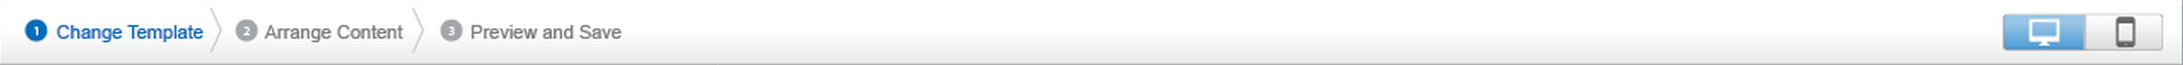
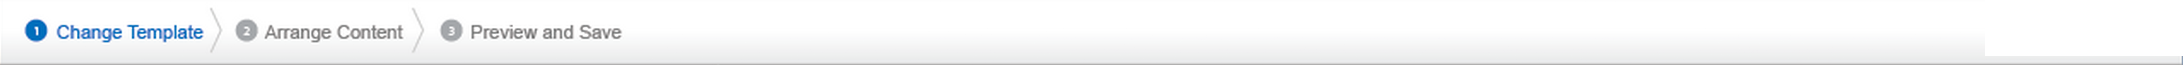
Small changes after feedback

Changed region(s): [[0.9033, 0.0, 1.0, 0.8615]]

diff --git a/master.js b/master.js
@@ -4,9 +4,16 @@ $(function(){
 	var $newPanel   = $('.new-panel');
 	var $newFooter  = $('.new-footer');
 	var $catContent = $('.cat-content');
+	var $BC         = $('.breadcrumb');
+	var $SB         = $('.save-btn');
+	var $ttl        = $('.header-title');
 
 	$switch.on('mousedown', function(ev){
 		var $currentTarget = $(ev.currentTarget);
+
+		$BC.show();
+		$SB.show();
+		$ttl.hide();
 
 		$switch.removeClass('active');
 		$catContent.removeClass('fade-out');
@@ -19,6 +26,9 @@ $(function(){
 		switch( $currentTarget.data('type') )
 		{
 			case 1:
+				$BC.fadeOut();
+				$SB.fadeOut();
+				$ttl.fadeIn();
 				$secHeader.addClass('open-1-pos');
 				$newPanel.addClass('open-1-pos');
 				$newFooter.addClass('open-1-pos');
@@ -30,6 +40,9 @@ $(function(){
 				},0);
 				break;
 			case 2:
+				$BC.fadeOut();
+				$SB.fadeOut();
+				$ttl.fadeIn();
 				$secHeader.addClass('open-2-pos');
 				$newPanel.addClass('open-2-pos');
 				$newFooter.addClass('open-2-pos');
@@ -41,6 +54,9 @@ $(function(){
 				},0);
 				break;
 			case 3:
+				$BC.fadeOut();
+				$SB.fadeOut();
+				$ttl.fadeIn();
 				setTimeout(function(){
 					$secHeader.addClass('open-3');
 					$newPanel.addClass('open-3');
@@ -49,6 +65,9 @@ $(function(){
 				},0);
 				break;
 			case 4:
+				$BC.fadeOut();
+				$SB.fadeOut();
+				$ttl.fadeIn();
 				setTimeout(function(){
 					$secHeader.addClass('open-4');
 					$newPanel.addClass('open-4');

diff --git a/index.html b/index.html
@@ -55,12 +55,14 @@
 <header class="padding-sm-bottom padding-lg-left padding-lg-right margin-sm-bottom">
 	<div class="container-fluid">
 		<!-- breadcrumb -->
-		<div class="row">
+		<div class="row" style="height:122px;">
 			<div class="col-sm-12">
 				<ol class="breadcrumb">
 					<li><a href="#">Back to Overview</a></li>
 				</ol>
 			</div>
+
+			<div class="header-title">Template Switcher</div>
 
 			<div class="btn-group save-btn">
 				<button type="button" class="btn btn-primary btn-lg">Save</button>
@@ -93,7 +95,7 @@
 						<input type="radio" name="option1" autocomplete="off"> Full Fade
 					</label>
 					<label class="btn btn-default" data-type="4">
-						<input type="radio" name="option1" autocomplete="off"> No transition
+						<input type="radio" name="option1" autocomplete="off"> No Transition
 					</label>
 				</div>
 			</div>

diff --git a/master.css b/master.css
@@ -265,7 +265,7 @@ header .form-group {
 	height: 50px;
 	left: 0;
 	width: 100%;
-	background: url("img/wizard-head.png") no-repeat scroll right top / 100% 100% #ffffff;
+	background: url("img/wizard-head.png") no-repeat scroll right top / 100% 100% transparent;
 	border-bottom: 1px solid #c4c2c2;
 	border-top: 1px solid #c4c2c2;
 	z-index: 100;
@@ -413,4 +413,12 @@ header .form-group {
 
 .new-footer.open-4{
 	opacity: 1;
+}
+
+.header-title {
+	position: absolute;
+	font-size: 18px;
+	left: 15px;
+	top: 90px;
+	display: none;
 }
